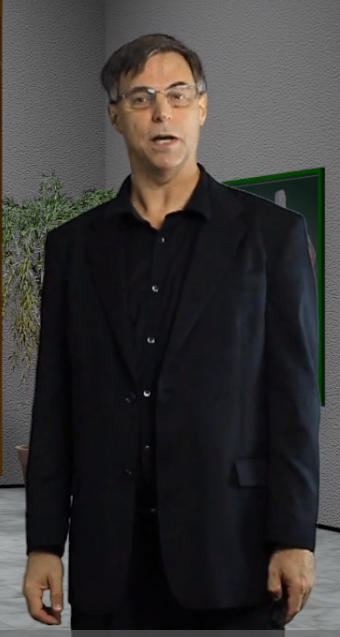
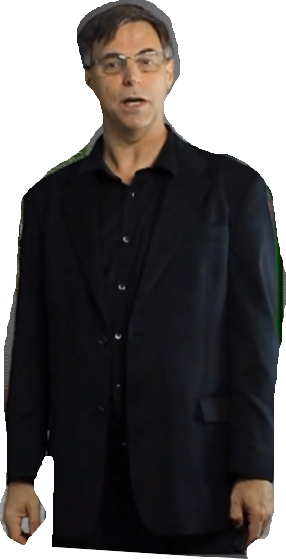
Updated drowen image(got rid of background)

diff --git a/SudokuLib/FullMessage.cpp b/SudokuLib/FullMessage.cpp
@@ -68,7 +68,7 @@ void FullMessage::DrawTakenSquare(std::shared_ptr<wxGraphicsContext> graphics, i
     graphics->SetBrush(*wxWHITE_BRUSH);
     graphics->DrawRectangle(boardX, boardY, boardWidth, boardHeight);
 
-    // Draw "I'm Full!" message in red
+    // Draw "Something is already there!" message in red
     wxString fullMessage = "Something is already there!";
     double messageWidth, messageHeight;
     graphics->GetTextExtent(fullMessage, &messageWidth, &messageHeight);
